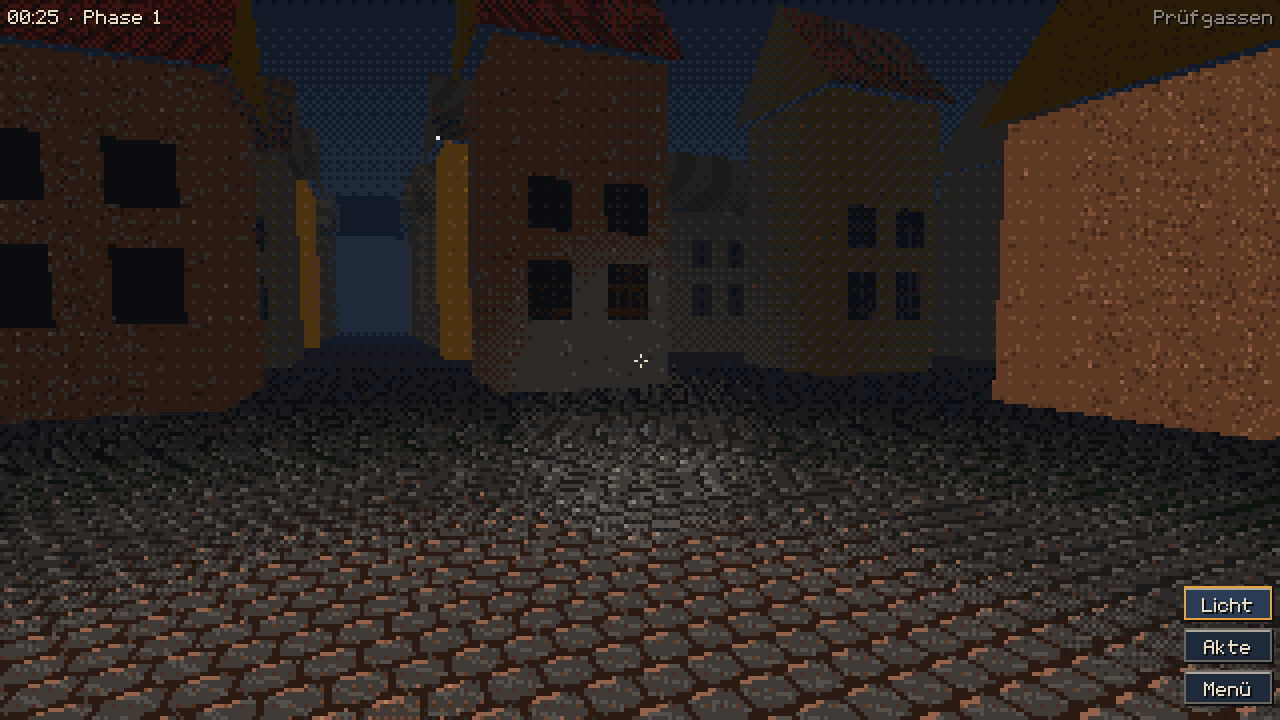
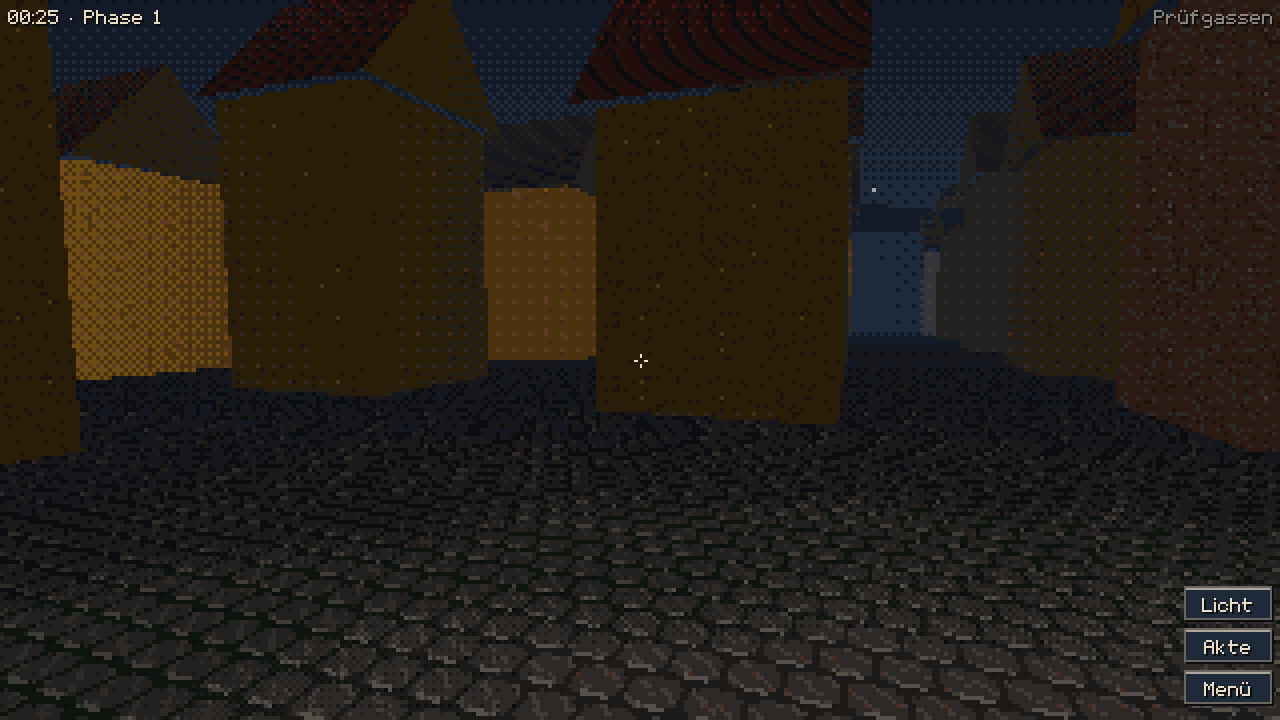
Nachtlauf Phase 1 abgeschlossen: Gamepad-Steuerung, Geräte-Test mit Gamepad-Simulation, Prüfpunkt
- lib/burgstadt/gamepad_eingabe.dart: Paket gamepads (MIT), normalisierte Tasten/Achsen
- tool/browser/geraete.js: simuliertes Gamepad (navigator.getGamepads), Wirkung geprüft

diff --git a/tool/browser/geraete.js b/tool/browser/geraete.js
@@ -58,6 +58,7 @@ async function wischen(cdp, x0, y0, x1, y1, schritte, haltenMs) {
   const browser = await chromium.launch({ args: ['--use-angle=swiftshader', '--enable-unsafe-swiftshader', '--ignore-gpu-blocklist'] });
   const bericht = [];
   let fehlerGesamt = 0;
+  let gamepadOk = false;
   for (const p of profile) {
     const ctx = await browser.newContext({ viewport: p.viewport, deviceScaleFactor: p.deviceScaleFactor, isMobile: p.isMobile, hasTouch: p.hasTouch, locale: 'de-DE' });
     const page = await ctx.newPage();
@@ -84,6 +85,27 @@ async function wischen(cdp, x0, y0, x1, y1, schritte, haltenMs) {
       await page.keyboard.down('KeyW'); await warte(1500); await page.keyboard.up('KeyW');
       await page.keyboard.down('ArrowRight'); await warte(400); await page.keyboard.up('ArrowRight');
       await page.mouse.move(800, 300); await page.mouse.down(); await page.mouse.move(700, 320, { steps: 10 }); await page.mouse.up();
+      // Gamepad-Simulation: navigator.getGamepads überschreiben, Verbindung melden, Stick vor + rechts
+      await warte(300);
+      const vorher = await page.screenshot();
+      await page.evaluate(() => {
+        const knopf = () => ({ pressed: false, touched: false, value: 0 });
+        window.__pad = { id: 'Simuliertes Gamepad', index: 0, connected: true, mapping: 'standard', timestamp: 0,
+          axes: [0, 0, 0, 0], buttons: Array.from({ length: 17 }, knopf) };
+        navigator.getGamepads = () => [window.__pad];
+        const ev = new Event('gamepadconnected');
+        Object.defineProperty(ev, 'gamepad', { value: window.__pad });
+        window.dispatchEvent(ev);
+      });
+      await warte(300);
+      await page.evaluate(() => { window.__pad.axes = [0, -1, 0.7, 0]; window.__pad.timestamp++; });
+      await warte(1500);
+      await page.evaluate(() => { window.__pad.axes = [0, 0, 0, 0]; window.__pad.buttons[2] = { pressed: true, touched: true, value: 1 }; window.__pad.timestamp++; });
+      await warte(200);
+      await page.evaluate(() => { window.__pad.buttons[2] = { pressed: false, touched: false, value: 0 }; window.__pad.timestamp++; });
+      await warte(400);
+      const nachher = await page.screenshot();
+      gamepadOk = Buffer.compare(vorher, nachher) !== 0;
     } else {
       // Touch: Joystick links nach oben ziehen und halten, rechts wischen zum Umsehen
       const w = p.viewport.width, h = p.viewport.height;
@@ -93,7 +115,8 @@ async function wischen(cdp, x0, y0, x1, y1, schritte, haltenMs) {
     await warte(600);
     const fps1 = await bildrate(page, 3000);
     await page.screenshot({ path: path.join(out, `${p.name}_spiel.png`) });
-    const zeile = `${p.name} · ${p.viewport.width}x${p.viewport.height} @${p.deviceScaleFactor} · Drosselung ${drossel}× · Bildrate Start ${fps0.toFixed(1)} / Spiel ${fps1.toFixed(1)} · Konsole ${konsole.length} · fremde Abrufe ${fremd.length}`;
+    const zeile = `${p.name} · ${p.viewport.width}x${p.viewport.height} @${p.deviceScaleFactor} · Drosselung ${drossel}× · Bildrate Start ${fps0.toFixed(1)} / Spiel ${fps1.toFixed(1)} · Konsole ${konsole.length} · fremde Abrufe ${fremd.length}` + (p.name === 'desktop' ? ` · Gamepad ${gamepadOk ? 'wirkt' : 'OHNE WIRKUNG'}` : '');
+    if (p.name === 'desktop' && !gamepadOk) fehlerGesamt++;
     bericht.push(zeile);
     if (mess.length) bericht.push('  ' + mess[mess.length - 1]);
     for (const k of konsole.slice(0, 5)) bericht.push('  ' + k);

diff --git a/lib/burgstadt/gamepad_eingabe.dart b/lib/burgstadt/gamepad_eingabe.dart
@@ -1,0 +1,83 @@
+import 'dart:async';
+
+import 'package:gamepads/gamepads.dart';
+import 'package:pixel_engine/pixel_engine.dart';
+
+/// Gamepad über das Paket `gamepads` (normalisierte Tasten/Achsen, alle Plattformen).
+/// Linker Stick gehen, rechter Stick umsehen; A bestätigen/Aktion, B zurück,
+/// X Licht, Y Detektivblick, Start Menü, Select Fallakte, Steuerkreuz Menüs,
+/// linker Stick drücken/LB rennen, RB Karte.
+class GamepadEingabe {
+  StreamSubscription<NormalizedGamepadEvent>? _abo;
+  double _lx = 0, _ly = 0, _rx = 0, _ry = 0;
+  final Map<GamepadButton, bool> _tasten = {};
+  final List<(Taste, bool)> _ereignisse = [];
+
+  bool get aktiv => _abo != null;
+
+  void starte() {
+    try {
+      _abo = Gamepads.normalizedEvents.listen(_ereignis, onError: (_) {});
+    } catch (_) {
+      _abo = null;
+    }
+  }
+
+  void _ereignis(NormalizedGamepadEvent e) {
+    final a = e.axis;
+    if (a != null) {
+      switch (a) {
+        case GamepadAxis.leftStickX:
+          _lx = e.value;
+        case GamepadAxis.leftStickY:
+          _ly = e.value;
+        case GamepadAxis.rightStickX:
+          _rx = e.value;
+        case GamepadAxis.rightStickY:
+          _ry = e.value;
+        default:
+      }
+      return;
+    }
+    final b = e.button;
+    if (b == null) return;
+    final unten = e.value > 0.5;
+    if ((_tasten[b] ?? false) == unten) return;
+    _tasten[b] = unten;
+    for (final t in _taste(b)) {
+      _ereignisse.add((t, unten));
+    }
+  }
+
+  static List<Taste> _taste(GamepadButton b) => switch (b) {
+        GamepadButton.a => const [Taste.bestaetigen, Taste.aktion],
+        GamepadButton.b => const [Taste.zurueck],
+        GamepadButton.x => const [Taste.licht],
+        GamepadButton.y => const [Taste.blick],
+        GamepadButton.start => const [Taste.menue],
+        GamepadButton.back => const [Taste.akte],
+        GamepadButton.dpadUp => const [Taste.hoch],
+        GamepadButton.dpadDown => const [Taste.runter],
+        GamepadButton.dpadLeft => const [Taste.links],
+        GamepadButton.dpadRight => const [Taste.rechts],
+        GamepadButton.leftStick || GamepadButton.leftBumper => const [Taste.rennen],
+        GamepadButton.rightBumper => const [Taste.karte],
+        _ => const [],
+      };
+
+  static double _tot(double v) => v.abs() < 0.18 ? 0 : (v - 0.18 * v.sign) / 0.82;
+
+  /// Überträgt den Zustand in [e] (einmal je Bild vor dem Spiel-Takt).
+  void anwenden(Eingabe e, double dt) {
+    for (final (t, unten) in _ereignisse) {
+      unten ? e.tasteRunter(t) : e.tasteHoch(t);
+    }
+    _ereignisse.clear();
+    e.gehenX = _tot(_lx);
+    e.gehenY = _tot(_ly);
+    e.blickDx += _tot(_rx) * 2.4 * dt;
+    e.blickDy += -_tot(_ry) * 1.6 * dt;
+  }
+
+  void dispose() => _abo?.cancel();
+}

diff --git a/lib/burgstadt/burgstadt_ansicht.dart b/lib/burgstadt/burgstadt_ansicht.dart
@@ -8,6 +8,7 @@ import 'package:flutter/services.dart';
 import 'package:pixel_engine/pixel_engine.dart';
 
 import 'frame_sink.dart';
+import 'gamepad_eingabe.dart';
 import 'tasten.dart';
 import 'ton_audioplayers.dart';
 
@@ -28,6 +29,7 @@ class BurgstadtAnsicht extends StatefulWidget {
 class _BurgstadtAnsichtState extends State<BurgstadtAnsicht> with SingleTickerProviderStateMixin {
   final Spiel spiel = Spiel();
   final AudioplayersTon _ton = AudioplayersTon();
+  final GamepadEingabe _gamepad = GamepadEingabe()..starte();
   final Eingabe eingabe = Eingabe();
   final FrameSink _welt = FrameSink(), _ui = FrameSink();
   final FocusNode _fokus = FocusNode(debugLabel: 'burgstadt');
@@ -64,6 +66,7 @@ class _BurgstadtAnsichtState extends State<BurgstadtAnsicht> with SingleTickerPr
   void dispose() {
     _ticker.dispose();
     _ton.dispose();
+    _gamepad.dispose();
     _welt.dispose();
     _ui.dispose();
     _fokus.dispose();
@@ -77,6 +80,7 @@ class _BurgstadtAnsichtState extends State<BurgstadtAnsicht> with SingleTickerPr
     // Physische Größe wie die Engine sie nutzt (bei gebrochenem Pixelverhältnis gerundet).
     final pw = (_logisch.width * _dpr).round(), ph = (_logisch.height * _dpr).round();
     spiel.groesse(pw, ph);
+    _gamepad.anwenden(eingabe, dt);
     final t0 = _uhr.elapsedMicroseconds;
     spiel.tick(dt, eingabe);
     final t1 = _uhr.elapsedMicroseconds;

diff --git a/nachtlauf/PRUEFPUNKT.md b/nachtlauf/PRUEFPUNKT.md
@@ -1,5 +1,12 @@
-# PRÜFPUNKT (für die Fortsetzung nach Unterbrechung zuerst lesen)
-- Branch: `nachtlauf/burgstadt` (Push nur dorthin, Nutzerentscheidung N-00).
-- Plan: `/root/.claude/plans/k-nnen-wir-dieses-bestehende-tender-candy.md` und `nachtlauf/PLAN.md`.
-- Zuletzt erledigt: Phase 0 – Ausgangstests grün, Bestandsfotos, Entscheidungslog, ABNAHME.
-- Nächster Schritt: KANON.md + Overlay, PLAN.md, tool/alle_tests.sh, dann Phase 1 (pixel_engine, Go/No-Go-Benchmark).
+# PRÜFPUNKT (für die Fortsetzung nach Unterbrechung zuerst lesen) · Stand 09.10. 00:29
+- Branch: `nachtlauf/burgstadt` (Push nur dorthin, Nutzerentscheidung N-00). Gesamttest: `bash tool/alle_tests.sh schnell` (voll ohne „schnell“: + Server, Web-Build, Playwright).
+- Plan: `nachtlauf/PLAN.md`, Entscheidungen `nachtlauf/ENTSCHEIDUNGSLOG.md` (E1–E14, E5a, E9a).
+- **Phase 1 abgeschlossen:**
+  - `packages/pixel_engine`: Palette/Licht, Rasterer, Sprites, Schrift (141 Zeichen), Pixel-UI, Texturen (36), Figuren-Brenner (Gliederpuppe, 8 Richtungen, 6 Animationen), Prüfwerkzeuge (Palette, Block, Sprite, PNG-Prüfer `bin/pixel_pruef.dart`).
+  - `packages/burgstadt_spiel`: Spiel, Skalierung, Hauptmenü, Optionen, Erkundung (Prüfszene), Steuerung, Ton.
+  - `packages/burgstadt_core`: Kanon-Parser + Overlay + Proben (= kanon.py), Leitplanken-Scanner, Stadtdaten (160 Häuser, 44 Bewohner).
+  - App: Route `/burgstadt` ist Start, `lib/burgstadt/` (FrameSink, Eingabe Touch/Maus/Tastatur/Gamepad, Ton über audioplayers).
+  - `tool/browser/geraete.js`: 3 Geräteprofile, Gamepad-Simulation, keine Konsolenfehler, keine fremden Abrufe.
+- **Laufende Haiku-Aufträge:** A-702a (Klassische Fälle leitplankenkonform), A-601a (Aussehen-Steckbriefe → `packages/pixel_engine/data/figuren/rollen.json`), A-108a/b (Figurenteile → `data/figuren/teile_*.json`). Ergebnisse liegen in `.claude/worktrees/agent-*` (unkommittiert) und werden von Opus kopiert, geprüft, committet.
+- **Nächster Schritt:** Phase 2 Durchstich – Weltmodell (Bereiche als Kachelraster 0,5 m mit Höhe, Portale), Burg-Komplex nach Kanon, Marktplatz + 3 Häuser, KanonRuntime Phase 1, Detektivblick, 2 Rollen, Fallakte, Bots.
+- Offen/beobachten: Bildzeit im Browser (SwiftShader + Agentenlast) 11–18 ms je Bild statt 4 ms im Benchmark → nach Abschluss der Agenten neu messen.

diff --git a/nachtlauf/NACHTPROTOKOLL.md b/nachtlauf/NACHTPROTOKOLL.md
@@ -3,3 +3,4 @@
 - 23:25 Ausgangstests: Core 22/22, Server-Smoke 63/0, validate 4× OK, simulate alle Szenarien bis Ende, analyze sauber, kanon.py pruefe 0 Befunde.
 - 23:42 Phase 1: `packages/pixel_engine` steht (Palette 64 Farben mit K8-Kern, Licht-Colormaps, Software-Rasterer mit Z-Puffer, Near-Clipping, Mips, Handylicht, Nebel, Himmel mit Mond und Bergen, Billboard-Sprites, PNG, Prüfwerkzeuge Paletten-/Blocktest). 8 Pixeltests grün. Go/No-Go: Go (dart2js 320×180 bei 4× Drosselung 18,7 ms).
 - 00:10 Phase 1: Haiku-Welle 1 (6 Agenten) läuft seit 23:48; fertig: Schrift (141 Zeichen), Leitplanken-Scanner (119 Tests), Kanon-Parser in Dart (gleiche Befunde wie kanon.py, 1224 wirksame Datensätze). Pixel-UI, Spielpaket `burgstadt_spiel` (Hauptmenü, Optionen, Erkundung, Touch/Tastatur/Maus), Flutter-Hülle (Route `/burgstadt` als App-Start, „Klassische Fälle“ führt zum Bestand). Web-Build: 3 Geräteprofile ohne Konsolenfehler und ohne fremde Abrufe, Blocktest/Palette 100 %. Offen: Bildzeit im Browser (14 ms statt 4 ms im Benchmark) – Profil läuft.
+- 00:29 Phase 1 abgeschlossen (Phasentor: alle Tests grün, Pixel-/Blocktest 100 % auf 3 Geräten, Gamepad wirkt). Haiku-Welle 2 (4 Agenten) läuft. Figuren-Brenner fertig (104 Bilder je Figur in ~0,1 s). Beginn Phase 2.

diff --git a/nachtlauf/STATUS.md b/nachtlauf/STATUS.md
@@ -1,2 +1,2 @@
 # STATUS
-STAND · 08.10. 23:30 · Phase 0 von 7 · Abnahme 0 von 14 · Aufträge 0 von – · Agenten aktiv 0 · nächster Schritt: Kanon-Overlay, PLAN, Formate einfrieren
+STAND · 09.10. 00:29 · Phase 2 von 7 · Abnahme 0 von 14 · Aufträge 14 von 49 · Agenten aktiv 4 · nächster Schritt: Durchstich – Weltmodell und Burg-Komplex
